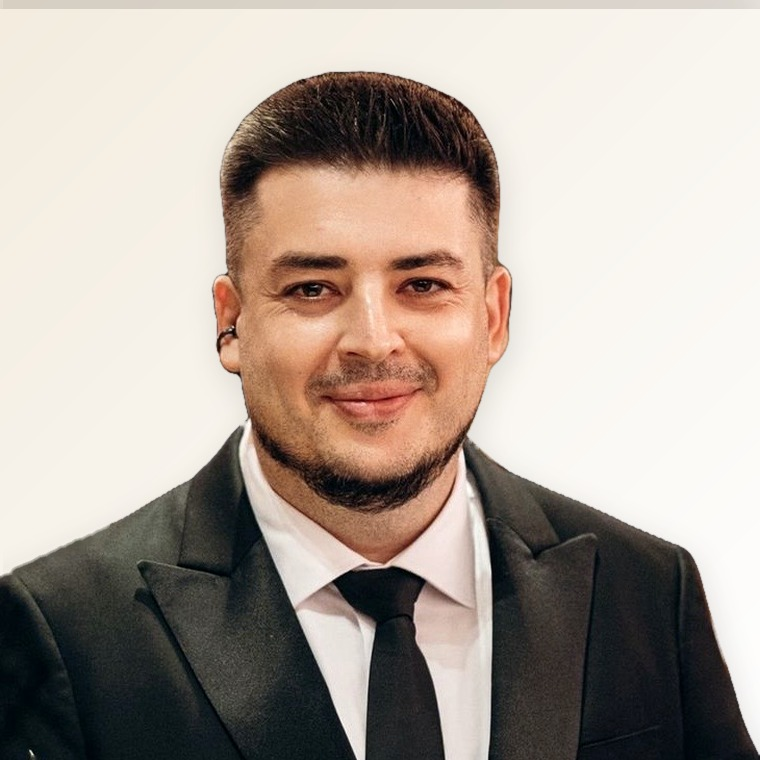
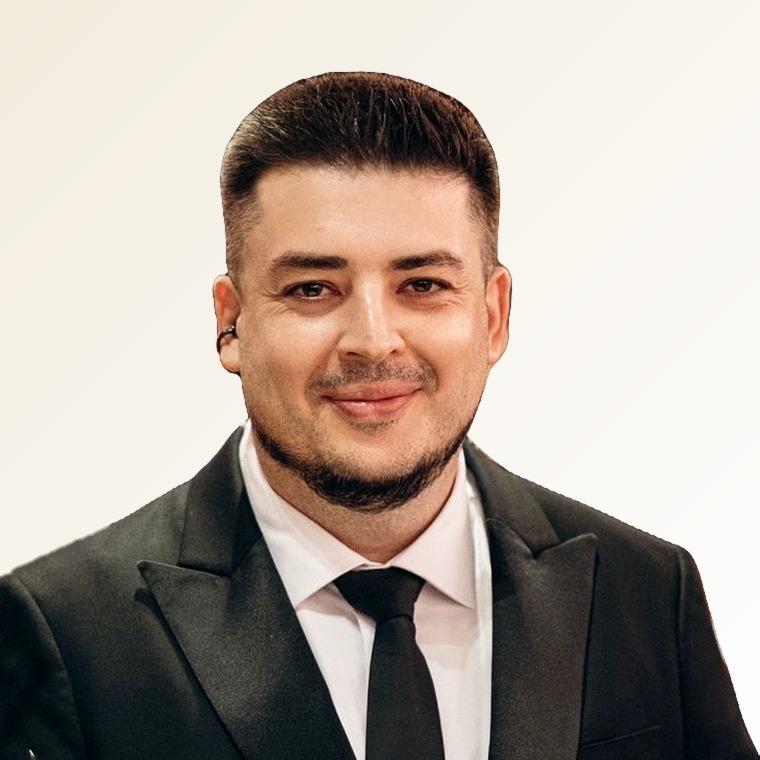
Founder photo: defringe edge; ?v=3

Changed region(s): [[0.0, 0.0, 0.9987, 0.0303], [0.9987, 0.9684, 1.0, 0.9987]]

diff --git a/index.html b/index.html
@@ -211,7 +211,7 @@
     <div class="kicker">Who's behind this</div>
     <div class="founder">
       <div class="photo" id="founder-photo">
-        <img src="denis.jpg?v=2" alt="Denis — founder of ADHD Lab" />
+        <img src="denis.jpg?v=3" alt="Denis — founder of ADHD Lab" />
       </div>
       <div>
         <h2>Hi, I'm Denis.</h2>
